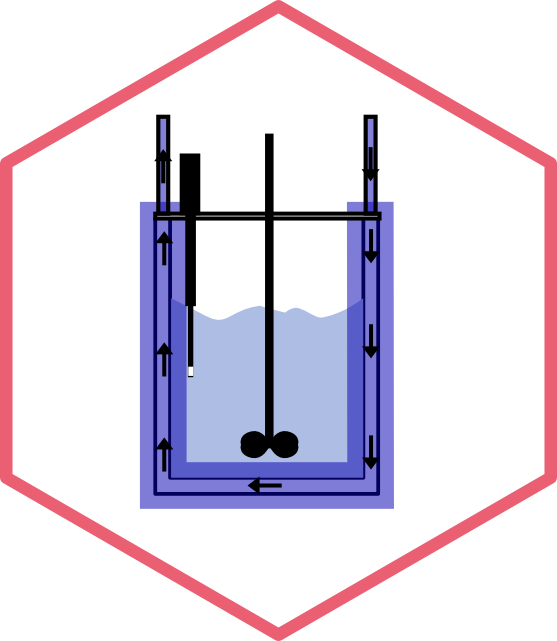
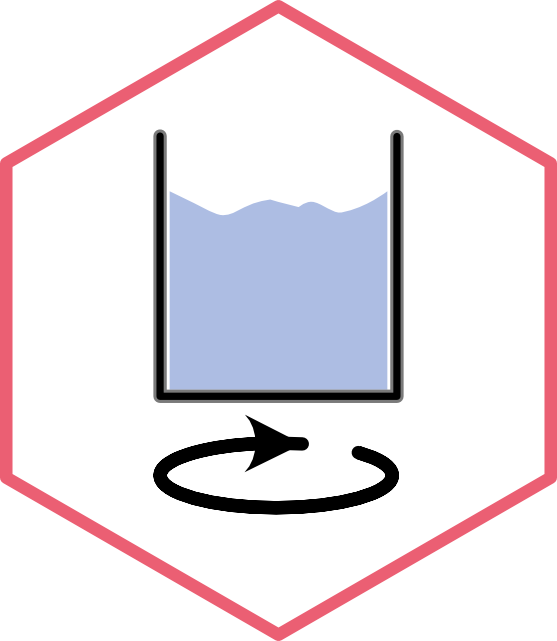
added images for operation mode and updated image for vessel and mixing

Changed region(s): [[0.2442, 0.156, 0.7325, 0.8112]]

diff --git a/Readme.md b/Readme.md
@@ -17,6 +17,8 @@ The operation mode is the first step in the experimental planning, it describes 
 
 [Operation mode](ModelExamples/OperationMode/Readme.md)
 
+[<img src="assets\Hexagons-operation-mode.png" width=100>](ModelExamples/Biocatalyst/Readme.md)
+
 ## (Bio)catalyst
 
 [<img src="assets\Hexagon-enzyme.png" width=100>](ModelExamples/Biocatalyst/Readme.md)
